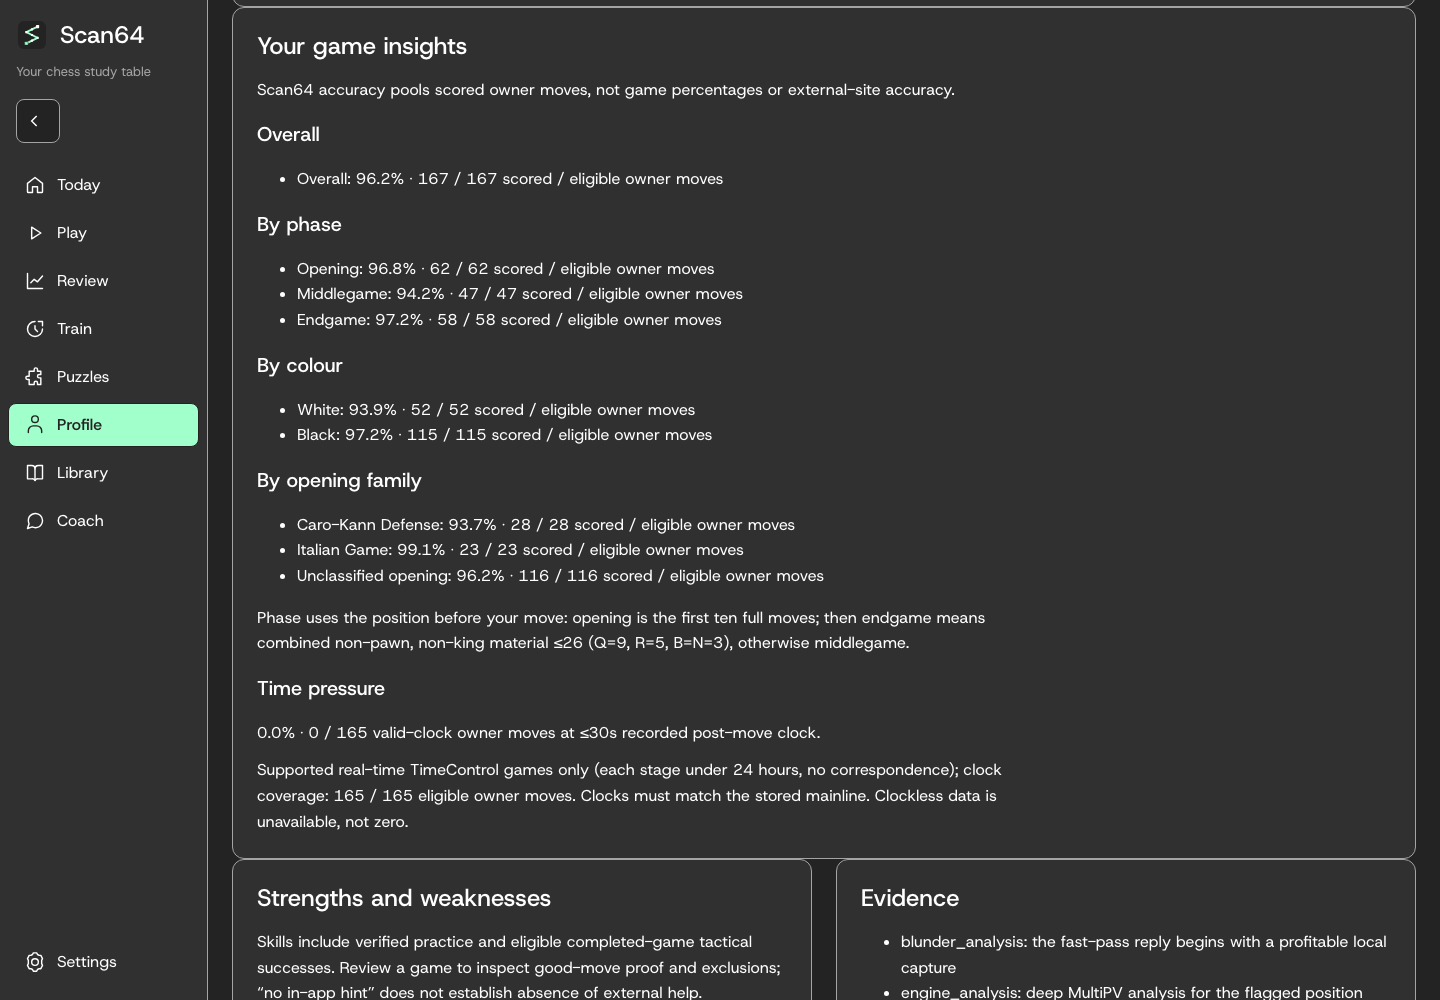
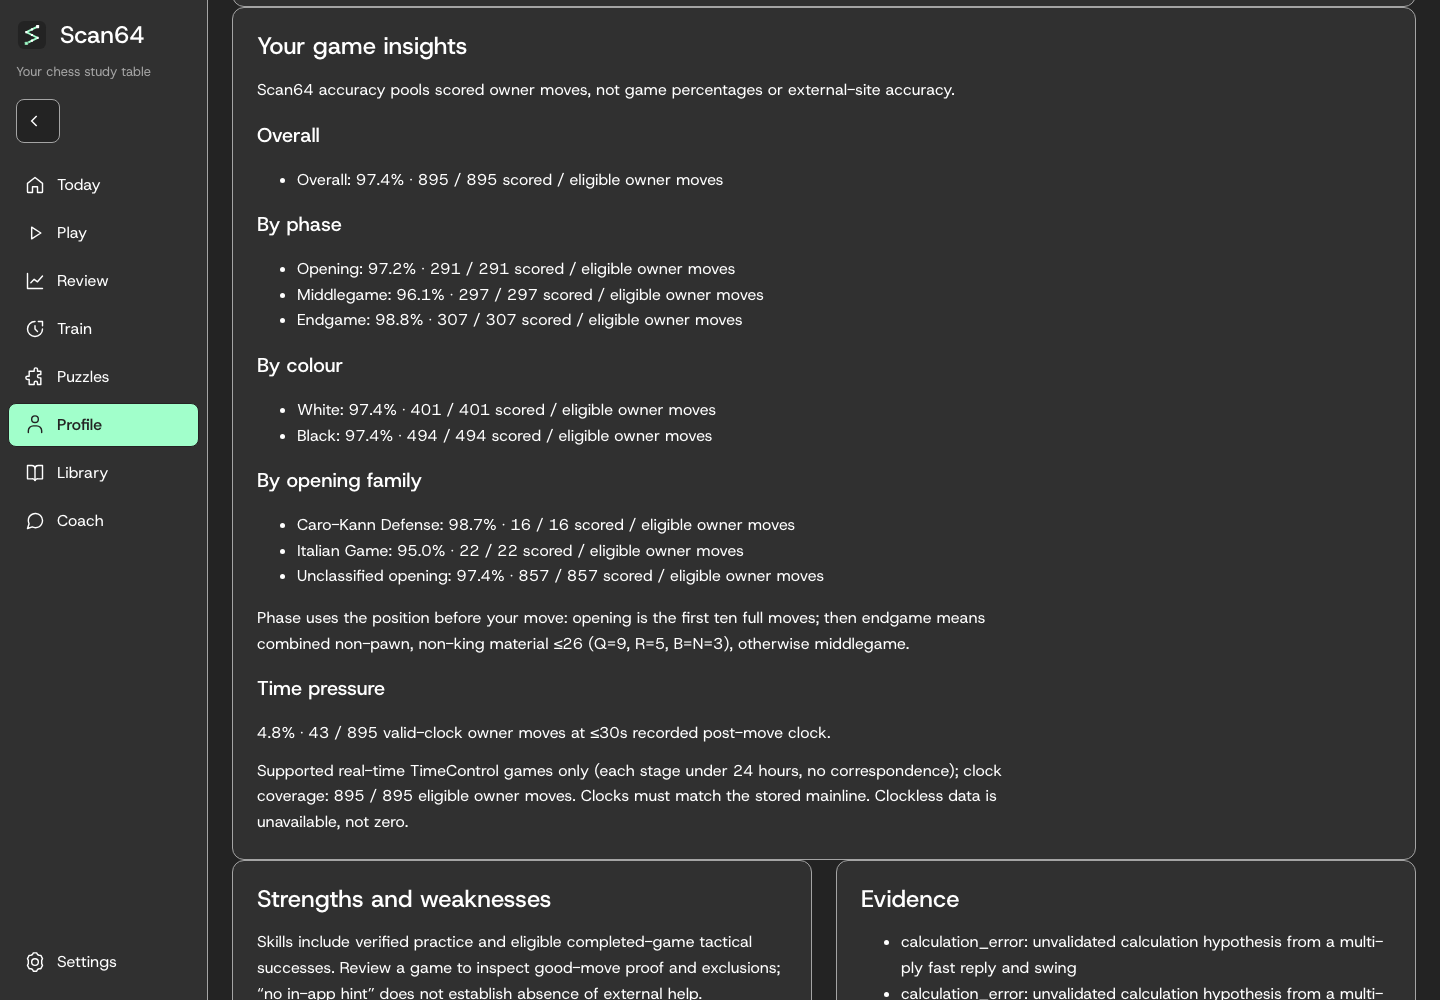
docs(readme): correct claims and align Profile captures
- Clarify puzzle verification, assisted-game exclusion and puzzle-download network access; align the feedback diagram after verified answers.
- Refresh the pitch for 1.0 and recapture Insights and Progress from one genuine analysed cohort with three later games.
- Preserve the observed higher after-training recurrence rate, sample sizes, intervals and non-causal caveat.

diff --git a/README.md b/README.md
@@ -12,7 +12,7 @@
 
 <p align="center">
   <b>A free, open-source chess coach that runs on your own computer.</b><br>
-  Play, import your online games, review the moments that mattered, and practise lessons and puzzles with an engine checking your answers.
+  Play, import your online games, review the moments that mattered, and practise engine-checked lessons and solve puzzles from the Lichess database.
 </p>
 
 <p align="center">
@@ -31,11 +31,11 @@ Most chess tools can tell you that a move was bad. Scan64 tries to help you see 
 - **Your games are the curriculum.** Import by Lichess or Chess.com username, paste a PGN, or play here. Stockfish turns supported mistakes into lessons and evidence-linked patterns.
 - **Help at the right depth.** Three-step hints go from a nudge to the idea to sound moves. Candidates and an optional blunder guard let you examine choices before committing.
 - **Evidence, not promises.** Profile shows game insights, recurring patterns and before/after recurrence with sample sizes. A change is not proof that training caused it, or that your rating improved.
-- **Local-first.** Games and progress stay on your computer. Online imports, desktop updates and optional local model wording have explicit network boundaries; no online Scan64 account is needed. See [Stable from 1.0](#stable-from-10) for the compatibility boundary.
+- **Local-first.** Games and progress stay on your computer. Online imports, **Download puzzles** from Lichess, desktop updates and optional local model wording have explicit network boundaries; no online Scan64 account is needed. See [Stable from 1.0](#stable-from-10) for the compatibility boundary.
 
 ## See it in action
 
-These are **headless Chromium captures of the current React client**, at 1440 × 1000 in dark mode, with the new knight's-tour logo. They use a disposable demo player, public Lichess games and genuine CC0 puzzles—not the owner's data or native desktop windows. The desktop app runs the same client.
+These are **headless Chromium captures of the current React client**, at 1440 × 1000 in dark mode. They use disposable demo players, public Lichess games and genuine CC0 puzzles—not the maintainer's data or native desktop windows. Insights and Progress share one demo state; the other scenes show a separate session. The desktop app runs the same client.
 
 ### Play a bot and ask for a hint
 
@@ -65,12 +65,12 @@ Solve multi-move puzzles from the free Lichess puzzle database. Scan64 keeps a s
     <td align="center"><b>Review</b>: inspect a turning point</td>
   </tr>
   <tr>
-    <td><a href="assets/screenshot-profile.png"><img src="assets/screenshot-profile.png" alt="Profile game insights with scored move counts by phase, colour and opening, plus clock-pressure coverage"></a></td>
-    <td><a href="assets/screenshot-patterns.png"><img src="assets/screenshot-patterns.png" alt="Profile hanging-piece recurrence: 11 games and 452 owner moves before training versus 3 games and 109 moves after; 1.33 versus 0.92 occurrences per 100 moves, with 95% Wilson intervals and the non-causal caveat"></a></td>
+    <td><a href="assets/screenshot-profile.png"><img src="assets/screenshot-profile.png" alt="Profile game insights: 97.4% accuracy across 895 scored and eligible owner moves, with phase, colour and opening breakdowns; 43 of 895 moves under clock pressure (4.8%)"></a></td>
+    <td><a href="assets/screenshot-patterns.png"><img src="assets/screenshot-patterns.png" alt="Hanging-piece recurrence before training: 15 games, 618 moves, 7 occurrences, 1.13 per 100 moves (95% Wilson interval 0.55–2.32); after: 3 games, 107 moves, 2 occurrences, 1.87 per 100 (0.51–6.56), with the non-causal caveat"></a></td>
   </tr>
   <tr>
-    <td align="center"><b>Insights</b>: read scores with coverage</td>
-    <td align="center"><b>Progress</b>: before/after rates with uncertainty</td>
+    <td align="center"><b>Insights</b>: 895 scored owner moves</td>
+    <td align="center"><b>Progress</b>: 1.13 → 1.87 per 100 moves—not a causal claim</td>
   </tr>
 </table>
 
@@ -81,7 +81,7 @@ Solve multi-move puzzles from the free Lichess puzzle database. Scan64 keeps a s
 | Eight bot levels; untimed or 1+0, 3+2, 5+0 and 10+5 | Engine-checked lessons; FSRS-scheduled lesson and eligible puzzle reviews | Game insights by phase, colour and opening; clock-pressure coverage when available |
 | Three-step hints, Candidates and opt-in blunder guard | **Safe or blunder**: choose a sound move over your played mistake | Recurring patterns with source positions, game counts and scored coverage |
 | **Review → Import games**: Lichess/Chess.com username or PGN | **Convert the win**: separate sparring from eligible review positions | Before/after pattern recurrence with game/move counts, intervals and insufficient-data states—not a causal claim |
-| Per-move review, key moments and an Analysis Board with engine lines | Daily puzzles, theme runs, missed-puzzle retries and a separate puzzle rating | Daily goals, calendar streaks, named skills and separate timed/assisted result cohorts |
+| Per-move review, key moments and an Analysis Board with engine lines | Daily puzzles, theme runs, missed-puzzle retries and a separate puzzle rating | Daily goals, calendar streaks, named skills and bot results by level and time control, excluding assisted games |
 | Premoves, annotations, keyboard moves and board appearance choices | Import a repertoire PGN, practise due decisions and compare imported-game deviations | Download a local coach packet with a pattern summary and annotated PGN evidence |
 
 **Library → Community lesson packs** installs local JSON packs and re-verifies their solver moves with your engine. Pack play **never changes progress or review schedules**; keep the original files because player exports exclude packs. Optional [Maia opponents](docs/maia.md) require operator-provided weights.
@@ -90,8 +90,8 @@ Solve multi-move puzzles from the free Lichess puzzle database. Scan64 keeps a s
 
 ```text
 Play or import → Stockfish analysis → supported diagnosis → lesson → verified answer
-       ↑                                                     ↓
-       └──────────── Profile evidence and scheduled practice ┘
+       ↑                                                                    ↓
+       └──────────── Profile evidence and scheduled practice ───────────────┘
 ```
 
 Lesson answers are checked on the server before they update skills and matching review schedules; hints remain app-reported. Patterns use your own moves and show their evidence coverage. Related puzzle themes are practice, not a new diagnosis. [Optional local Ollama wording](docs/user-guide.md#optional-local-explanation-wording) is off by default: built-in explanations need no model, and generated wording must pass evidence checks. See the [system overview](docs/system-overview.md).

diff --git a/docs/pitch.md b/docs/pitch.md
@@ -10,7 +10,7 @@ The implemented learning loop is:
 game -> Stockfish analysis -> persisted evidence -> diagnosis -> owned lesson -> verified answer -> profile update
 ```
 
-The unified desktop app runs the same React client on macOS Apple silicon, Windows x64 and Linux x64. It includes Today and first-run orientation; eight relative Stockfish levels with colour choice, take-back and three-step hints; PGN import and per-move game review with accuracy, coverage, key moments and mistake retries; Daily Training; imported puzzles with a separate rating, stable daily sets, theme practice and solve streaks; evidence-linked patterns, UTC daily goals and tracked practice targets; opening exploration, famous-game study, a player profile, transfer measurement and opt-in coach-mode interruptions. Light, dark and system appearance share one board-centred interface.
+The unified desktop app runs the same React client on macOS Apple silicon, Windows x64 and Linux x64. Today offers a starting point for play, review and practice. Play has eight relative Stockfish levels, untimed or Fischer-clock games, three-step hints, Candidates and an opt-in blunder guard; untimed games allow takebacks. Import public games by Lichess/Chess.com username or paste a PGN, review key moments, then practise engine-checked lessons, Safe or blunder or separate Convert the win sparring. Lessons and eligible puzzles use FSRS review schedules; source-verified Lichess puzzles retain their own rating, daily sets, theme practice and solve streaks. Library includes opening study, famous games, repertoire PGN import/practice and deviation comparisons, plus locally verified community lesson packs whose play never changes progress. Profile combines game insights, evidence-linked patterns and before/after recurrence with sample sizes, uncertainty and an explicit non-causal caveat. Coach packets, optional local Ollama wording and Send feedback support sharing and explanation without a hosted Scan64 account. Light, dark and system appearance share one board-centred interface.
 
 The learning engine publishes renderer-independent `LessonSpec` objects. The React board is one consumer of that contract rather than a private shortcut around it.
 
